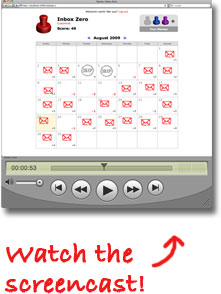
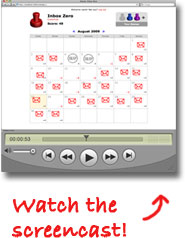
adding highlights section to home page

diff --git a/public/stylesheets/home.css b/public/stylesheets/home.css
@@ -1,7 +1,11 @@
 #logo {
   display: block;
-  margin: 40px auto;
-  margin-bottom: 60px;
+  margin: 40px 0;
+  margin-bottom: 50px;
+}
+
+#user_info {
+  margin-right: 80px;
 }
 
 h2 {
@@ -20,13 +24,56 @@ form #stamp_name {
 }
 
 #container {
-  width: 715px;
-  max-width: 715px;
+  width: 670px;
+  max-width: 670px;
 }
 
-#screencast {
+#side {
   float: right;
   padding-top: 10px;
+}
+
+#highlights {
+  background-color: #EEE;
+  -moz-border-radius: 15px;
+  -webkit-border-radius: 15px;
+  border: solid 2px #CCC;
+  margin-top: 23px;
+  padding-bottom: 15px;
+}
+
+#highlights h4 {
+  font-size: 16px;
+  text-align: center;
+  margin: 0;
+  padding-top: 3px;
+  padding-bottom: 5px;
+  color: #999;
+  font-weight: normal;
+  letter-spacing: 0.2em;
+  border-bottom: solid 1px #999;
+}
+
+#highlights .stamp {
+  padding: 3px 5px;
+  font-size: 12px;
+  border-bottom: solid 1px #999;
+}
+
+#highlights .stamper {
+  float: left;
+  padding-left: 5px;
+  padding-top: 3px;
+}
+
+#highlights .stamp_details {
+  margin-left: 35px;
+  padding-top: 3px;
+}
+
+#highlights .score {
+  font-size: 10px;
+  color: #777;
 }
 
 #new_stamp {

diff --git a/app/models/stamp.rb b/app/models/stamp.rb
@@ -10,6 +10,7 @@ class Stamp < ActiveRecord::Base
   validates_presence_of :name
   
   named_scope :non_private, :conditions => ["private != ?", true]
+  named_scope :highlights, :conditions => "score_cache > 10", :order => "random()", :limit => 3
   
   def day_points(date)
     month_points(date.beginning_of_month)[date.day-1]
